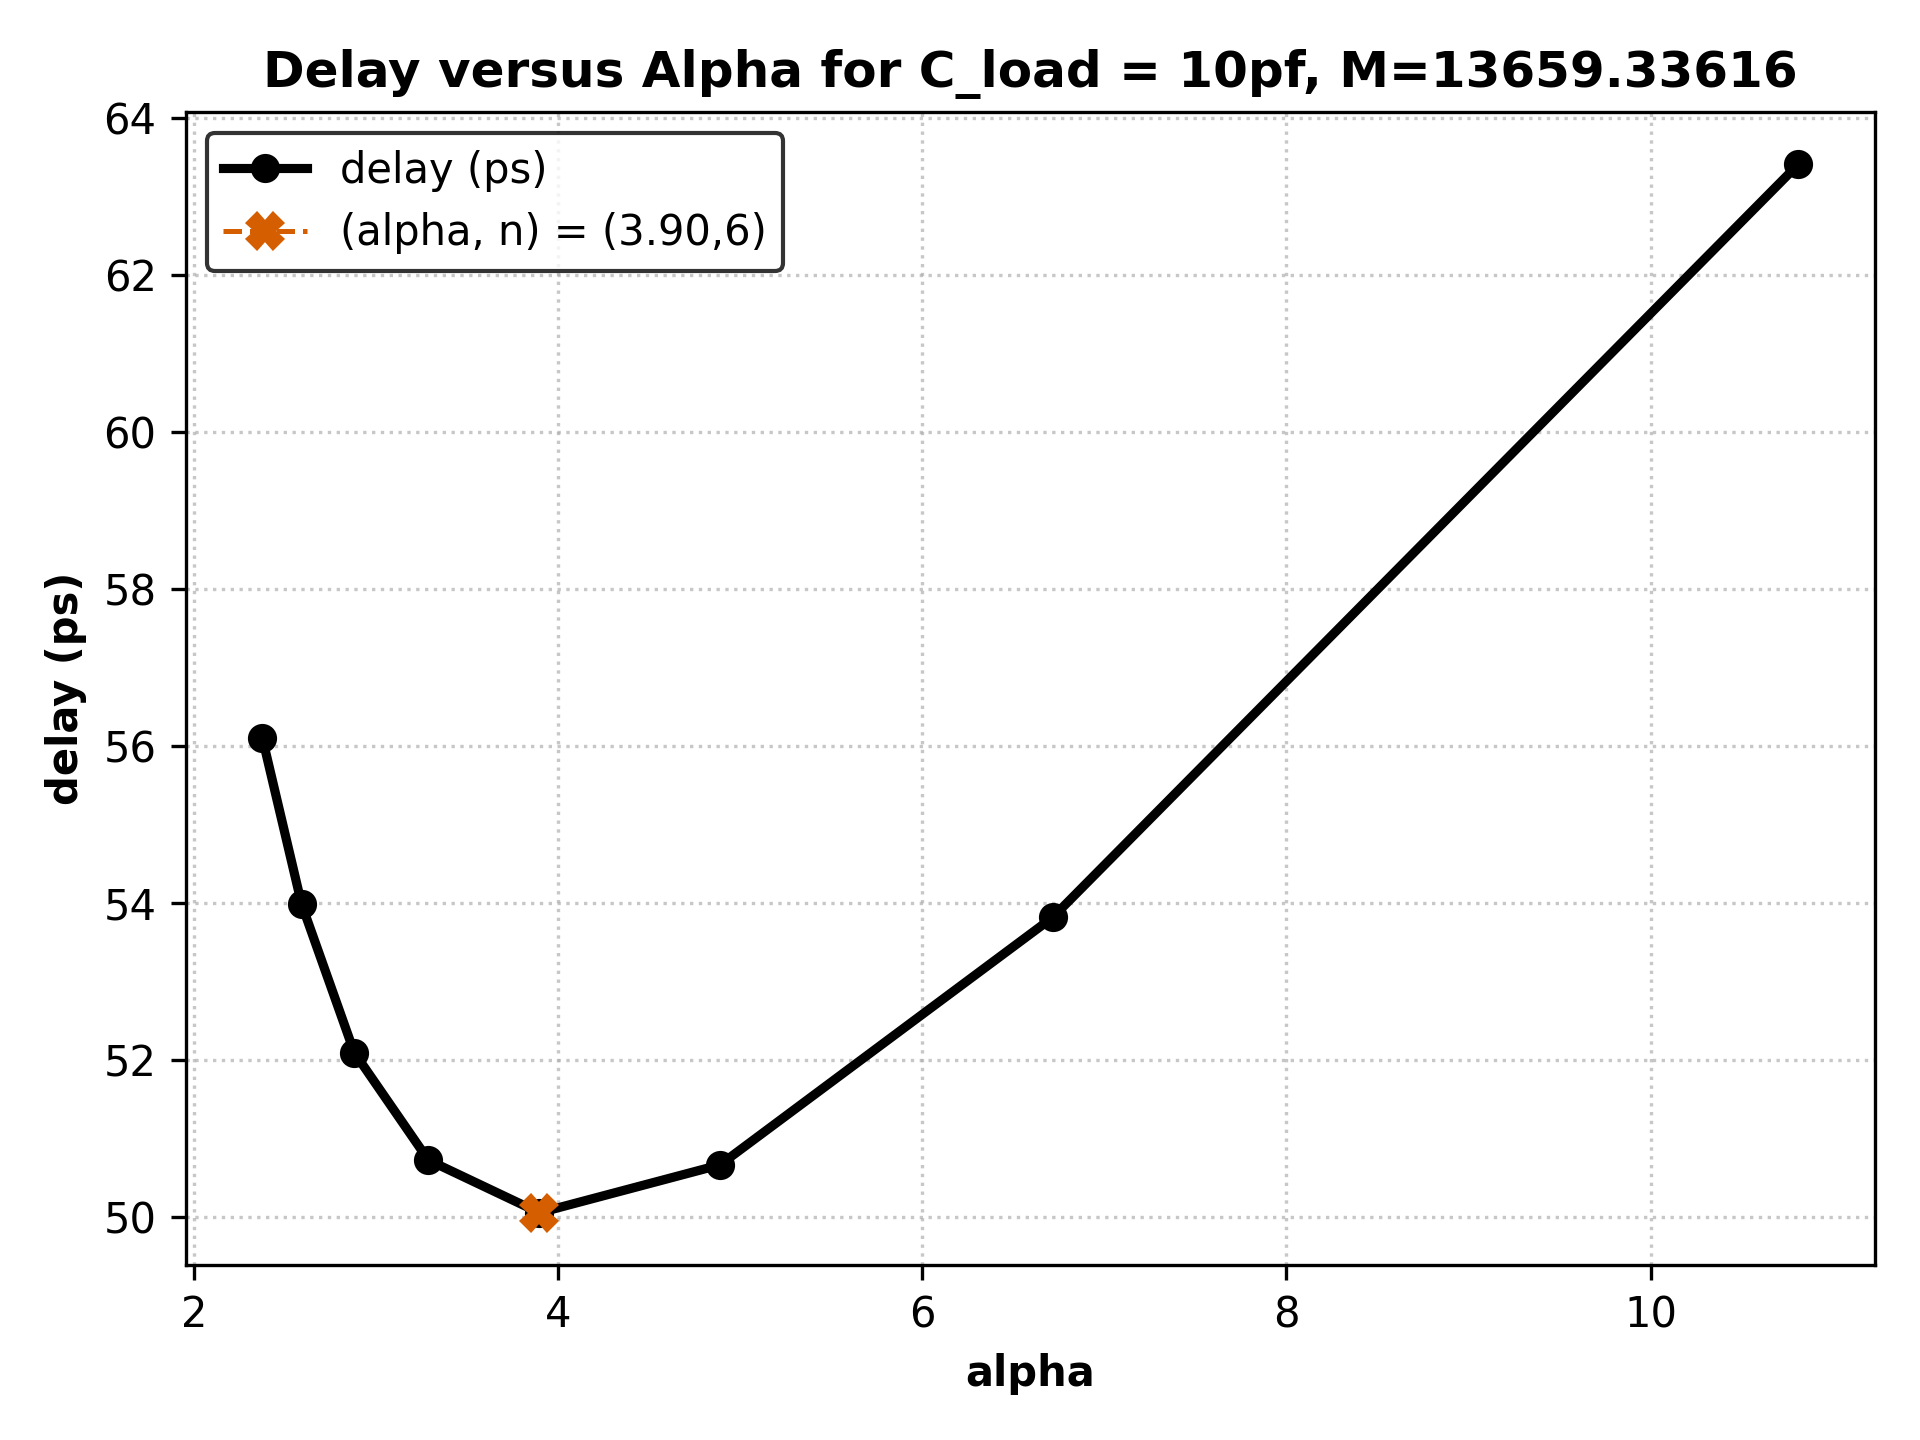
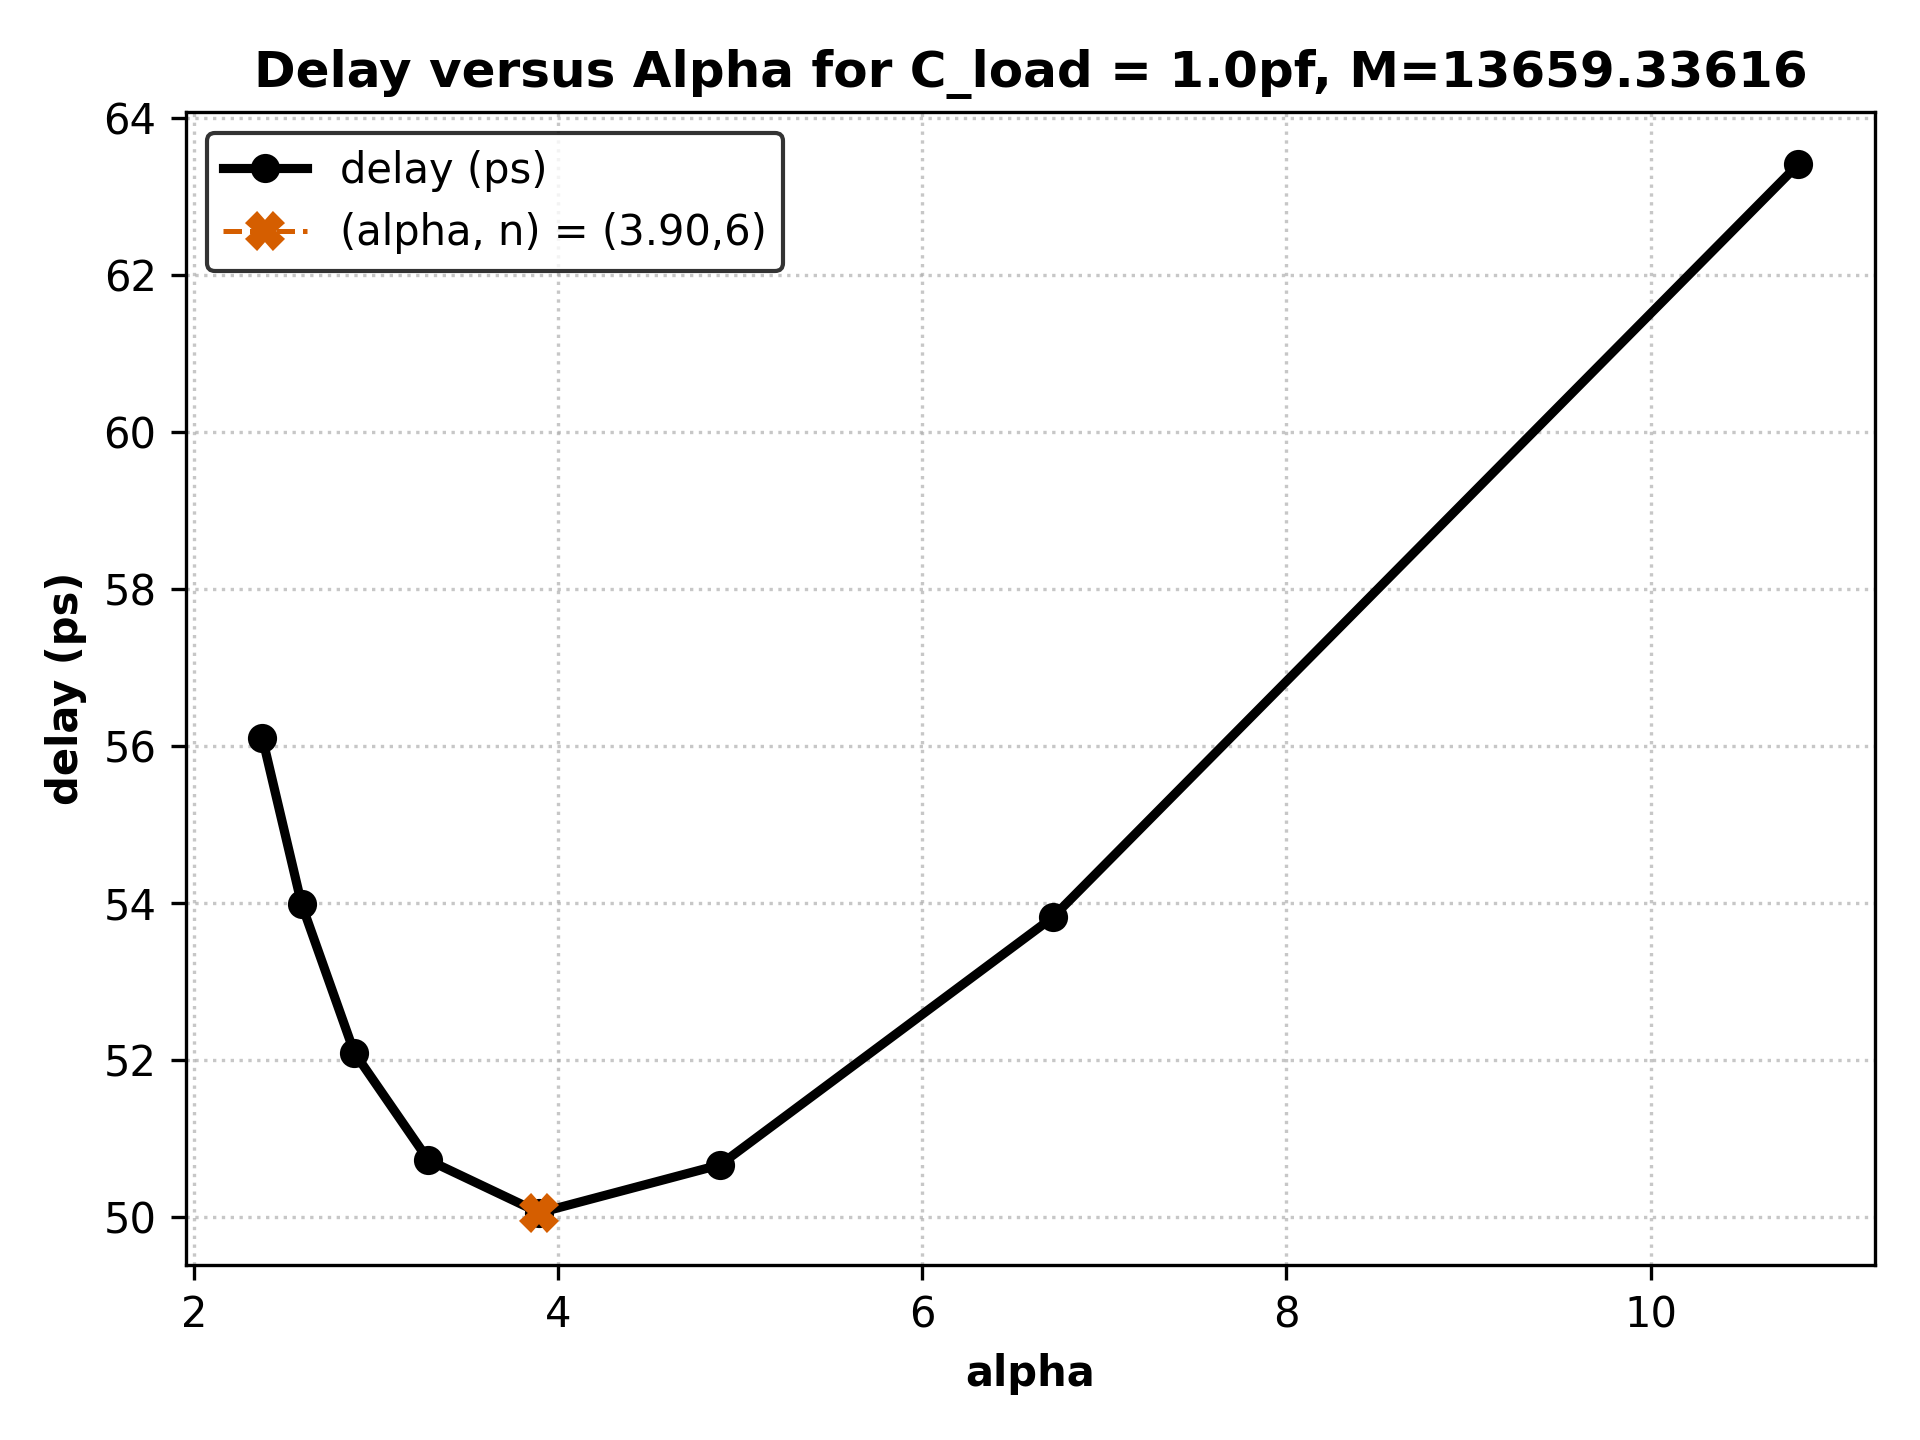
fixed graph title for exercise 5

Changed region(s): [[0.125, 0.0312, 0.9375, 0.0625]]

diff --git a/inv_chain_builder.py b/inv_chain_builder.py
@@ -161,6 +161,7 @@ V2 vss 0 DC 0.0
     
         extra_x = {f"(alpha, n) = ({alpha_best[0]:.2f},{n_best})": alpha_best}
         extra_y = {f"(alpha, n) = ({alpha_best[0]:.2f},{n_best})": delay_best}
+
         
         # Plot results
         plt.figure(1)
@@ -171,7 +172,7 @@ V2 vss 0 DC 0.0
             extra_y_dict=extra_y,
             xlabel="alpha",
             ylabel="delay (ps)",
-            title=f"Delay versus Alpha for C_load = 10pf, M={builder.M:.5f}",
+            title=f"Delay versus Alpha for C_load = {self.c_load*1e12}pf, M={builder.M:.5f}",
             filename=f"{graph_dir}/{self.base_name}.png"
         )
         plt.clf()

diff --git a/results/Exercise_4.md b/results/Exercise_4.md
@@ -15,8 +15,6 @@
 |      0.8 |       0.0268465 |
 
 
-
-
 # PMOS with S and D connected to Ground
 |   Vg (v) |   gate cap (fF) |
 |---------:|----------------:|
